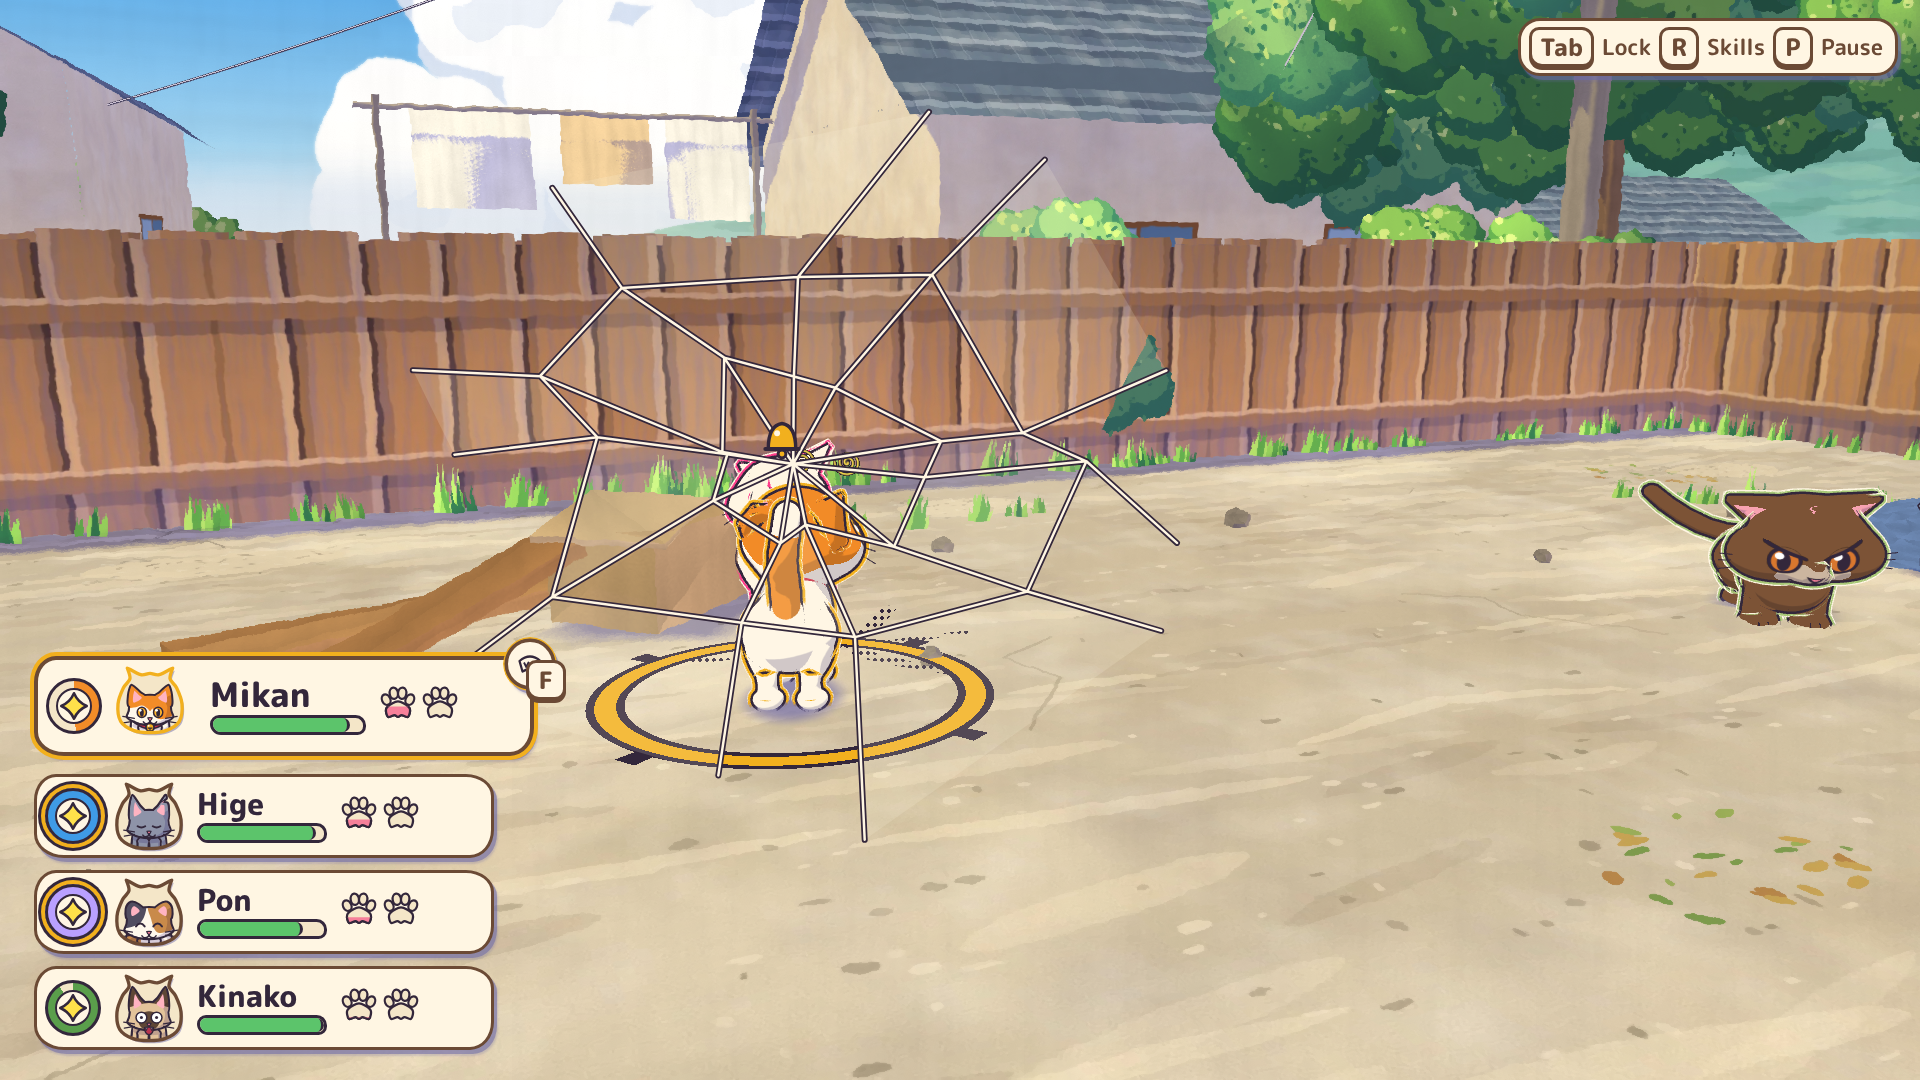
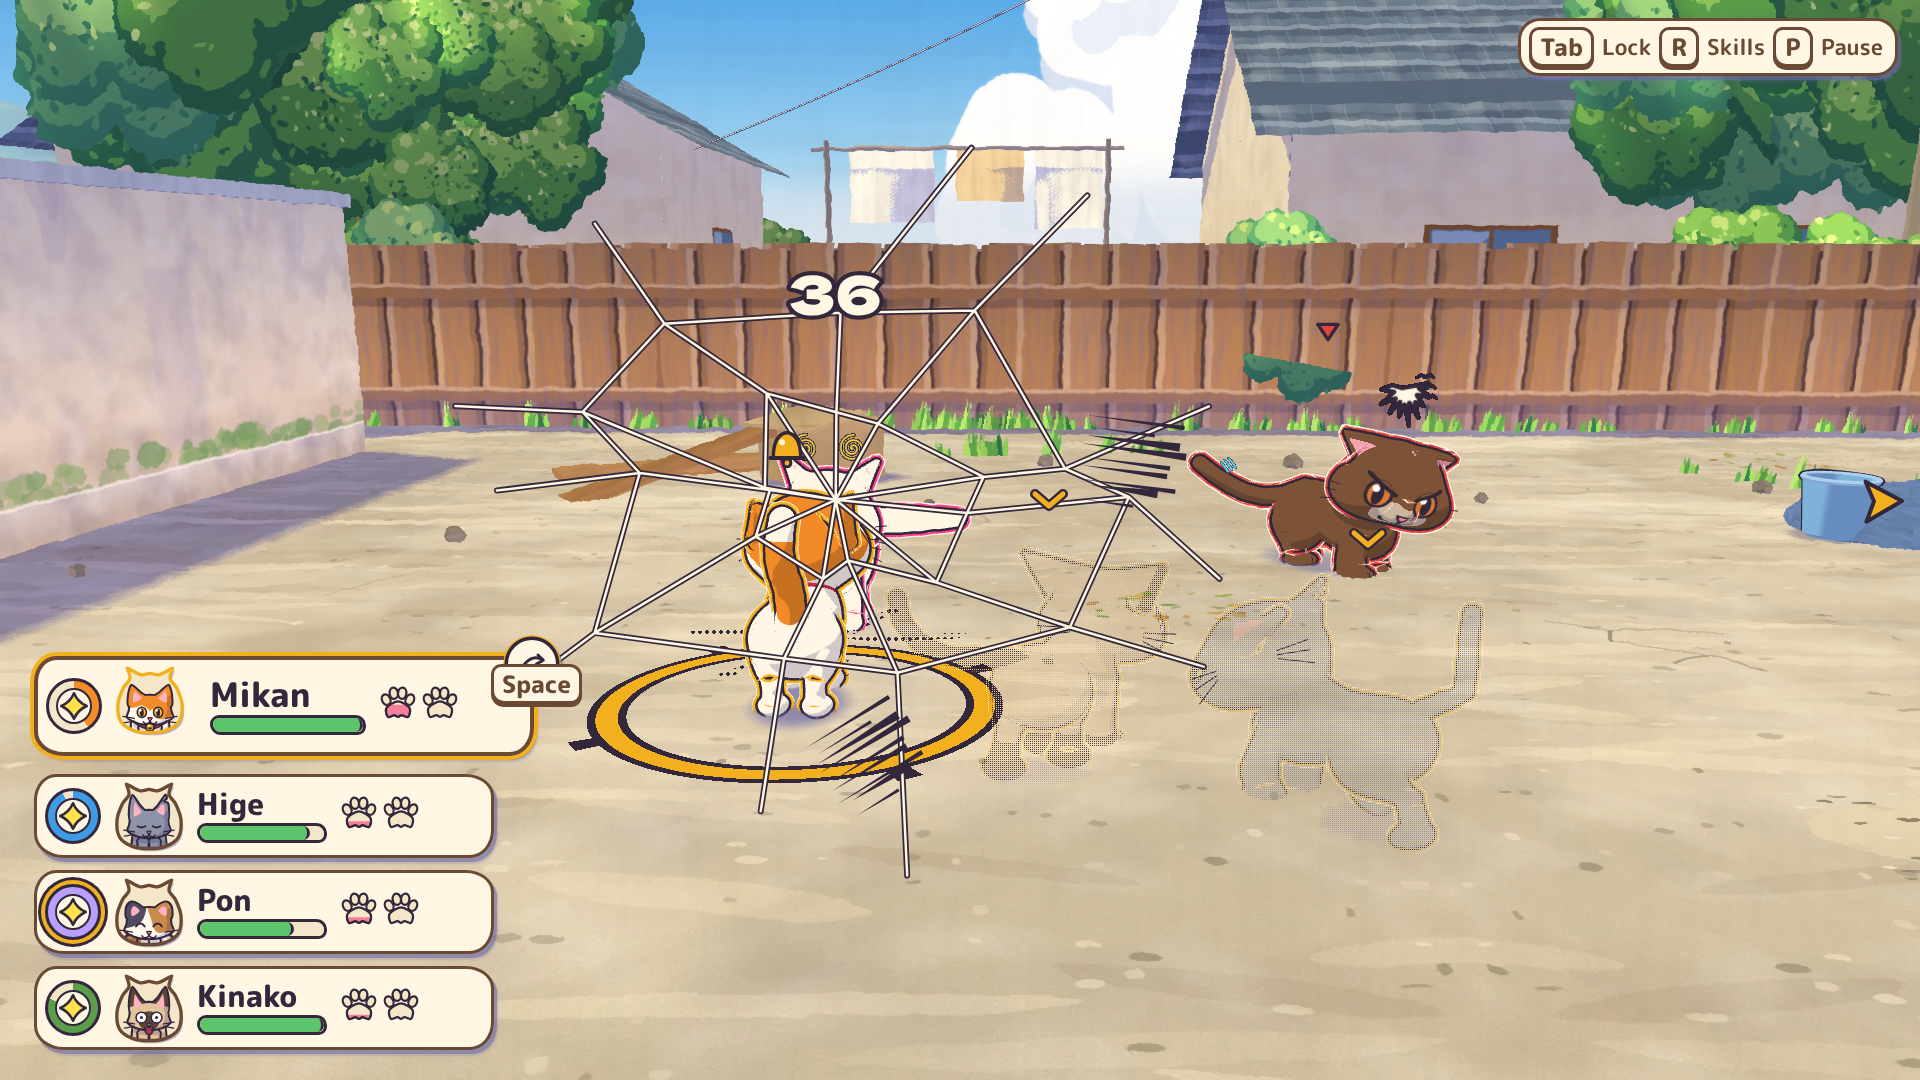
docs(M1.2): clear wall/wash-tub leftovers in day loop, sound bible, art bible; Mikan tail/face per C8/C9; close F13/F14
Claude-Session: https://claude.ai/code/session_01K9BzCtu5ca2nRxDXecreHZ

diff --git a/design/art/art-bible.md b/design/art/art-bible.md
@@ -150,7 +150,7 @@ The slice tracks ≤ 12 Rivals plus Strays and generated Crew, so the generator 
 | Axis | Options | Notes |
 |---|---|---|
 | **Base mesh** | 3 on one skeleton: **Round** (heavy, Bruiser-weighted), **Standard**, **Long** (lean) | Size, fur puff and kitten proportions come from bone scale; smoothed outline normals baked per mesh |
-| **Tail shape** | 4: **long whip**, **plume**, **thick ringed**, **short stub** | The round **pom** is reserved for Mikan. "Kinked" and "puffed" are Scars, not generator options |
+| **Tail shape** | 4: **long whip**, **plume**, **thick ringed**, **short stub** | Mikan's tail is a thick S-curve with a white tip (owner C9; the pom is retired). "Kinked" and "puffed" are Scars, not generator options |
 | **Ears** | 3: **standard**, **tall narrow**, **small round** | "Notched" and "folded" are Scars |
 | **Pattern class** | 6: **solid**, **bicolour with white**, **tabby** (3–5 bold bands), **patched** (calico/tortie, large blocks), **pointed**, **tuxedo** | Borderless flat shapes. The dominant mark is ≥ 8% of dorsal area. Max 3 coat colours |
 | **Coat colour** | 10 fills (§4.3), each with an authored shade | Mikan Ginger never generated |
@@ -339,7 +339,7 @@ The UI never uses the household hues at full saturation, and never painted textu
 
 ### 5.1 Mikan (fixed design; canon brief §3.1)
 
-A ginger-and-white Japanese bobtail: white body `#FFF8EC`, ginger cap over both ears and a ginger patch over the left eye in Mikan Ginger, **pom-pom stub tail** (a hero shape), amber eyes `#FFB52E`, **red collar with one small brass bell**. From behind, the read is: ginger cap and two ginger ears, the red collar line, white back, pom tail. That read must survive every lighting key.
+A ginger-and-white cat: white body `#FFF8EC`, ginger cap over both ears and a ginger patch over the left eye in Mikan Ginger, a round fat face, a small snout with a visible nose bridge, a **thick S-curve ginger tail with a white tip** (owner C8/C9), amber eyes `#FFB52E`, **red collar with one small brass bell**. From behind, the read is: ginger cap and two ginger ears, the red collar line, white back, the S-curve tail. That read must survive every lighting key.
 
 - **Kitten (Life 1):** big head (≈ 1.35× bone scale on the head), short legs, the bell oversized on the collar, a wobble in the walk.
 - **Young adult (Life 2):** standard Scrapper proportions, bouncing toes in a fight.
@@ -450,7 +450,7 @@ A Showa-nostalgic hillside lane of old wooden houses and plaster garden walls st
 - **High Road:** wall tops, fence tops, laundry-pole rails, eaves and a run of roofs give a continuous upper route. From cat height, these are skylines: the High Road is always readable as a lighter ribbon against the sky or a darker wall.
 - **Scent Post kit** (inked hero props; Territory/Level assign them to Patches): a persimmon tree trunk, a laundry pole, a stone lantern, a utility pole with a crooked transformer box, a roadside Jizo-style stone post. Each stands on quiet ground and is visible at 30 m.
 - **Scent wisps** (DR-47): 1–4 drawn, slowly curling ribbons in the Clowder colour with a Cream rim, hanging above the post. Wisp count is the strength read. Flat colour, no glow.
-- **Den:** Daifuku's wall, the tallest garden wall in the Lane with a knock-off ledge, a bucket below and a sightline to the sea.
+- **Den:** Daifuku's ground arena at the foot of the tallest garden wall in the Lane, with a sightline to the sea (M1.2: he fights on the ground).
 - **Low Wall Corner** (Home Ground, tutorial): the corner by Haru's wall, the friendliest light in the district.
 - **Sunspots (4):** a warm painted light patch (`#FFE7A3` with a halftone rim) on a flat surface, with a cushion-like prop (a folded towel, a sunlit step, a warm car bonnet, a tin roof).
 - **Prop density:** dense at the ground band (pots, bikes, buckets, crates, cats' ledges); sparse above 1.2 m, so the sky and roofs read as calm masses. Every fight space keeps a ≈ 10 m ring of mid-value ground clear of high-contrast clutter.
@@ -592,8 +592,8 @@ Target: 1080p60 on a GTX 1060 / RX 580-class PC (min spec, proposed). The handhe
 
 | Group | Items |
 |---|---|
-| **Cats** | Mikan (kitten + adult proportions, pet set, Scrapper set) · Daifuku (3 phases' hero poses, knock-off, bucket splat) · the old wall cat · 3 base meshes · 4 tails · 3 ears · 6 silhouette Scars + 3 close-up Scars · 6 regalia · gold Crew cord · 10 coat fills · 6 pattern masks · 12 face decals |
-| **Animation** | **6 personality sets** × (2 idles, walk, trot, sit, 3 bark poses, Fence Line pose, Pile-On flourish) = 60 clips · **3 Style sets** (Scrapper, Bruiser, Yowler) × (3-hit string, Pounce, Tag-In strike, Hop, Skitter, Brace, Hiss, 4 Move poses, Zoomies, hit-react ×2, Frazzled, Routed bolt, Back Down) ≈ 57 clips · shared (Spray, Sniff, nap, climb, ledge-hang, knock-off fall, Splat) |
+| **Cats** | Mikan (kitten + adult proportions, pet set, Scrapper set) · Daifuku (3 phases' hero poses, belly-flop wind-up and slam) · the old wall cat · 3 base meshes · 4 tails · 3 ears · 6 silhouette Scars + 3 close-up Scars · 6 regalia · gold Crew cord · 10 coat fills · 6 pattern masks · 12 face decals |
+| **Animation** | **6 personality sets** × (2 idles, walk, trot, sit, 3 bark poses, Fence Line pose, Pile-On flourish) = 60 clips · **3 Style sets** (Scrapper, Bruiser, Yowler) × (3-hit string, Pounce, Tag-In strike, Hop, Skitter, Brace, Hiss, 4 Move poses, Zoomies, hit-react ×2, Frazzled, Routed bolt, Back Down) ≈ 57 clips · shared (Spray, Sniff, nap, climb, ledge-hang, knocked-down tumble) |
 | **Humans** | Haru (raincoat, uniform, home clothes) · Gran · 4 street sets · hand pose library (≈ 20 poses) |
 | **Critters** | Crow (walk, hop, peck, take-off, hit, flee) |
 | **Environment** | Hidamari Lane (5 Patches, High Road, Den, 4 Sunspots, 5 Scent Post types) · Haru's House (garden, genkan, Main Room with piano, Haru's room, Alcove) · the Lot · 4 phase skies and backdrop sets · Narrative's 8 daily-find states |

diff --git a/design/audio/sound-bible.md b/design/audio/sound-bible.md
@@ -146,9 +146,9 @@ A sumo entrance that refuses to speed up: tuba, ō-daiko, a yawning trombone gli
 
 | Phase | Music |
 |---|---|
-| 1 · Seated on his wall | 80 BPM, will not double; the joke is that the music is as immovable as he is |
+| 1 · Squaring off on the ground | 80 BPM, will not double; the joke is that the music is as immovable as he is |
 | 2 · He stands | Brawl double-time arrives on the phase-break T5 |
-| 3 · At the edge (the bucket) | Full brass and taiko; his gesture as a riff; the knock-off into the bucket is a Splat with a Water Fear sting |
+| 3 · Rage (belly-flop shockwaves) | Full brass and taiko; his gesture as a riff; each shockwave slam lands on the downbeat |
 
 Phase breaks are T5 (Combat). A Pile-On that plays a phase break as its final beat carries the phase transition on that beat (DR-32).
 
@@ -347,7 +347,7 @@ Rules:
 | **Fears** (`FearTriggered`) | Universal: a shamisen screech glissando + the cat's own shriek. Then: **Water/bucket** slosh and splash · **Loud Noise/scooter horn** a two-tone toot (the horn is diegetic) · **Cucumber/ledge junk** a vegetable thunk and a vibraslap |
 | **Statuses** | Soggy: drips on each step · Cowed: a flat, muffled vocal colour · Fired Up: a brighter, faster effort layer |
 | **Rout** | Dust puff, receding bolt yelp panned off-screen. Posse cat Routed: its voice leaves the music's off-beat chirps. |
-| **Knock-off** | Scrabble at the edge, a falling yowl, Splat (Boss: Ruffled, DR-32) |
+| **Shockwave** | Wind-up grunt, the slam, a ground-rumble ring; KnockedDown cats get a tumble yowl (M1.2; replaces the knock-off) |
 
 ### 7.3 Pile-On and Zoomies
 

diff --git a/design/gdd/day-loop.md b/design/gdd/day-loop.md
@@ -270,8 +270,8 @@ Totals: C 3.5 · T 7.25 · H 1.75 · S 3. Optional (heavy): the challenger fight
 | 0:00–0:15 | P | Wake; Mikan wears the plaster (yesterday's wipe) | Narrative | H |
 | 0:15–0:45 | P | Sniff: Daifuku plastered (−10%); the raid forecast; a town event or the challenger's stamp | Nemesis | T |
 | 0:45–1:45 | P | Lot: Yowler into the Posse; Share a Morsel | Crew | T |
-| 1:45–3:15 | 0:00–1:30 | High Road to his Morning stop (Laundry Pole Yard's yard wall, the wash tub) | Territory | T |
-| 3:15–6:45 | P | Daifuku Standoff (Calm: anger spent by yesterday's loss), 3 phases (sim 157 s at −10%), knock-off into the wash tub, Full Pile-On, Verdict (any of three) | Combat, Nemesis | C |
+| 1:45–3:15 | 0:00–1:30 | High Road to his Morning stop (Laundry Pole Yard, a ground arena) | Territory | T |
+| 3:15–6:45 | P | Daifuku Standoff (Calm: anger spent by yesterday's loss), phase 1 on the ground (belly-flop shockwave; universal Boss pattern; M1.2), Special chain and team finisher, Verdict (any of three) | Combat, Nemesis | C |
 | 6:45–7:15 | 1:30–2:00 | The thread to the Den corner stone; **Claim Spray the Den post** → `DistrictClaimed` | Territory | T |
 | 7:15–7:30 | 2:00→4:00 | Nap | Day loop | T |
 | 7:30–14:00 | 4:00–8:00 | Victory lap: 2 fights (2.5 P, one is usually the Nemesis's daily placement), approaches (1), roam | Combat, Territory | C/T |

diff --git a/design/reviews/owner-feedback/follow-ups.md b/design/reviews/owner-feedback/follow-ups.md
@@ -22,3 +22,5 @@ Collected by the orchestrating session from reviser hand-backs, for the consiste
 | F14 | M1.1 doc sweep leftovers: brief §4.1/§6.1/§7/§8/§10 and GDD §6, §17–§21 still mention Tag-In/Relay/Pile-On inputs; crew lines 23/45/618; nemesis "clean Pile-On" and `by_pile_on` | M1.1 docs agent | brief, GDD, crew, nemesis |
 | F15 | M1.1 doc vs sim: docs specify a bonded-chain bonus and Special values the sim does not use; reconcile when the sim lands (sim data wins for numbers) | M1.1 docs agent | combat-system, src/data/combat |
 | F16 | Designer rulings for owner awareness: no jump in combat (Dash mantles); Brace AI-only; Hiss moved to the skill bar; Specials have no unlock level | M1.1 docs agent | combat-system |
+
+**Closed 2026-11-24 (M1.2):** F14 (Tag-In/Relay/Pile-On leftovers cleared by the docs agent; wall/wash-tub lines in day-loop, sound bible and art bible cleared by the orchestrator, plus Mikan's tail/face description updated to C8/C9). F13 accepted for the showcase (game designer, M1 review).
